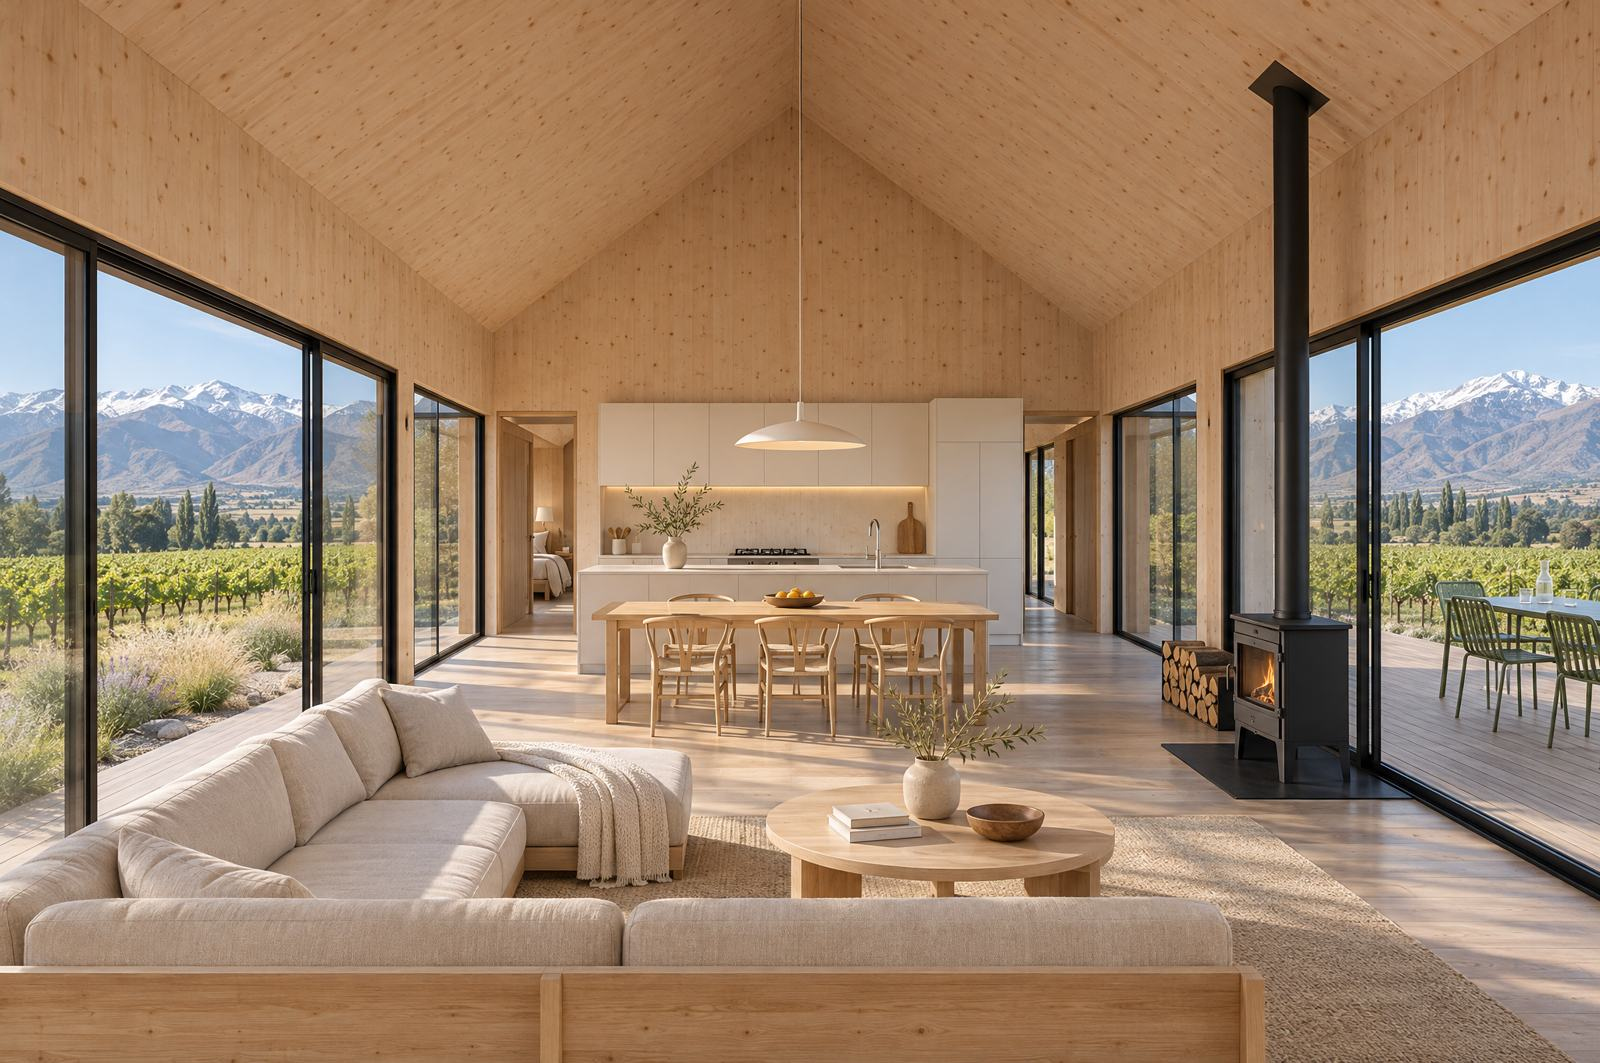
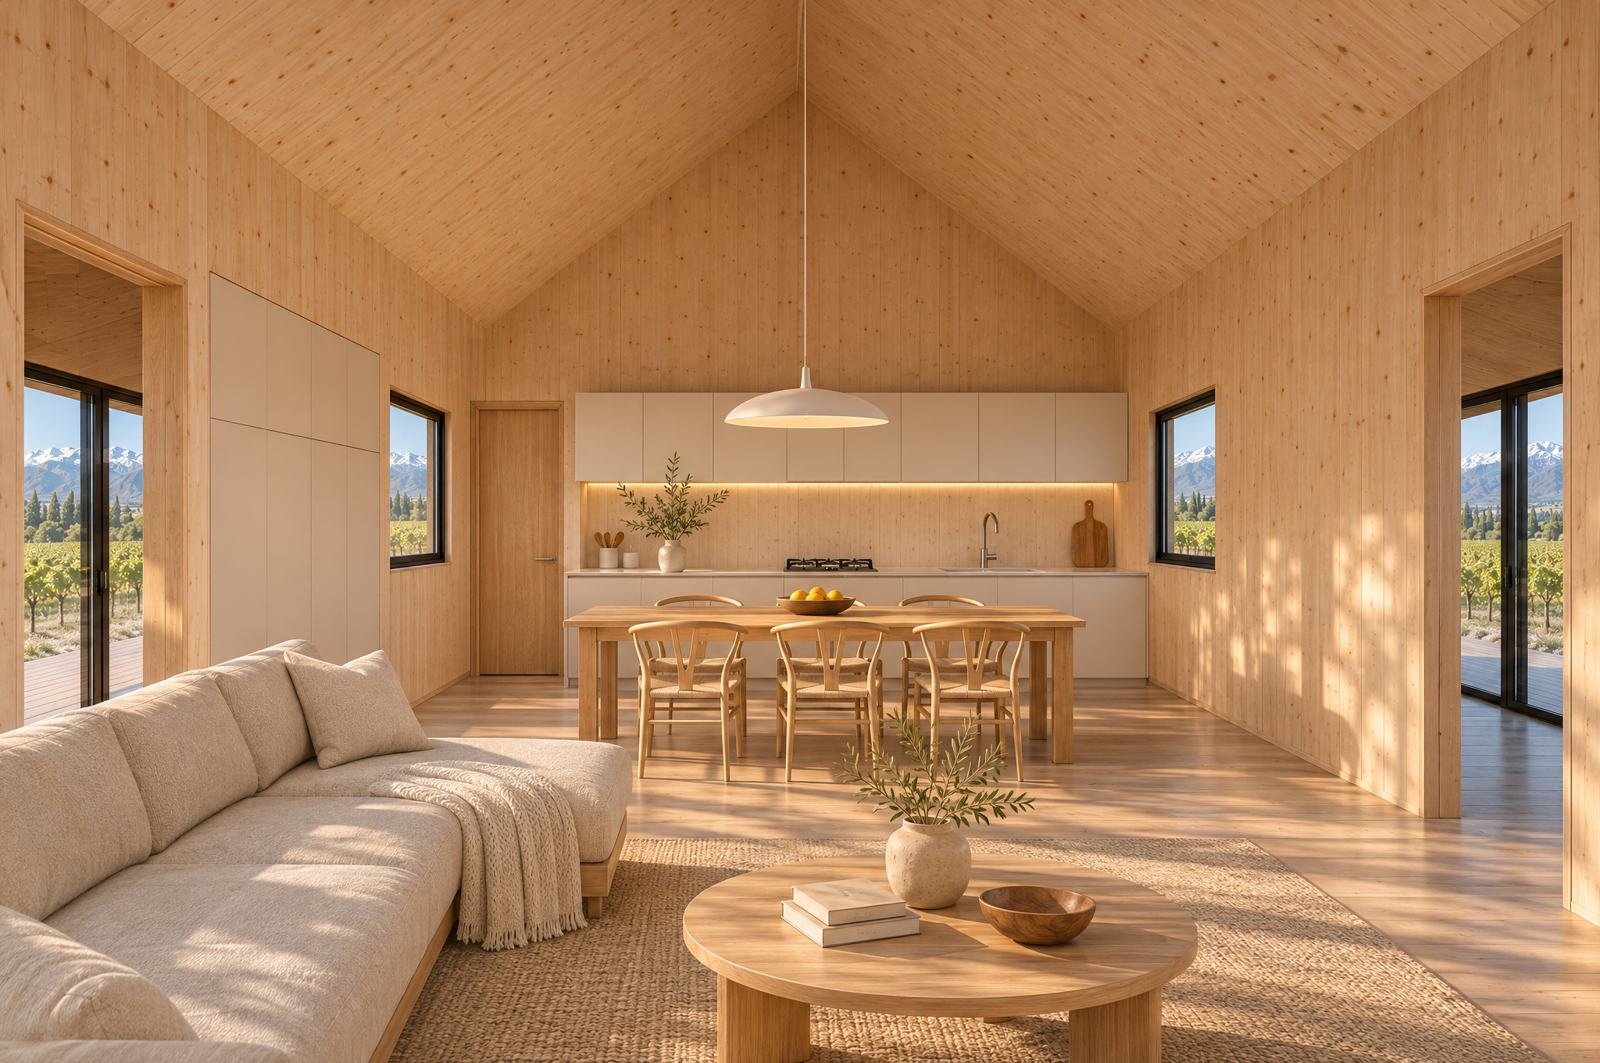
Noki II 120: living y dormitorio según planta; quita principal y segundo living. Galería del 108 actualizada

diff --git a/app/noki/modelos/datos.ts b/app/noki/modelos/datos.ts
@@ -124,7 +124,7 @@ export const MODELOS: Modelo[] = [
     planoPdf: '/noki/Modelos/planos/nokiII_108.pdf',
     planoImg: '/noki/Modelos/planos/nokiII_108_plano.jpg',
     hero: '/noki/Modelos/galeria/noki-ii-108/hero.jpg',
-    galeria: [...G('noki-ii-108', 'hero.jpg', 'living.jpg', 'dormitorio.jpg', 'extra.jpg', 'dusk.jpg'), '/noki/Modelos/baja/nokiII_110.jpg'],
+    galeria: G('noki-ii-108', 'hero.jpg', 'living.jpg', 'dormitorio.jpg', 'dusk.jpg'),
   },
   {
     slug: 'noki-ii-120',
@@ -145,8 +145,8 @@ export const MODELOS: Modelo[] = [
     totalNetoUF: 3843,
     planoPdf: '/noki/Modelos/planos/nokiII_120.pdf',
     planoImg: '/noki/Modelos/planos/nokiII_120_plano.jpg',
-    hero: '/noki/Modelos/galeria/noki-ii-120/hero.jpg',
-    galeria: G('noki-ii-120', 'hero.jpg', 'living.jpg', 'dormitorio.jpg', 'extra.jpg', 'dusk.jpg'),
+    hero: '/noki/Modelos/galeria/noki-ii-120/dusk.jpg',
+    galeria: G('noki-ii-120', 'dusk.jpg', 'living.jpg', 'dormitorio.jpg'),
   },
   {
     slug: 'noki-ii-135',
